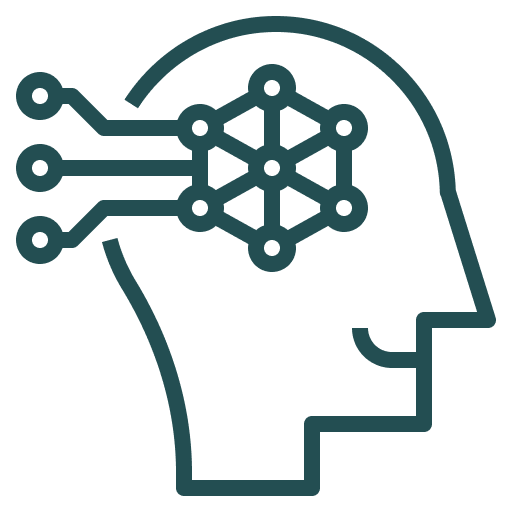
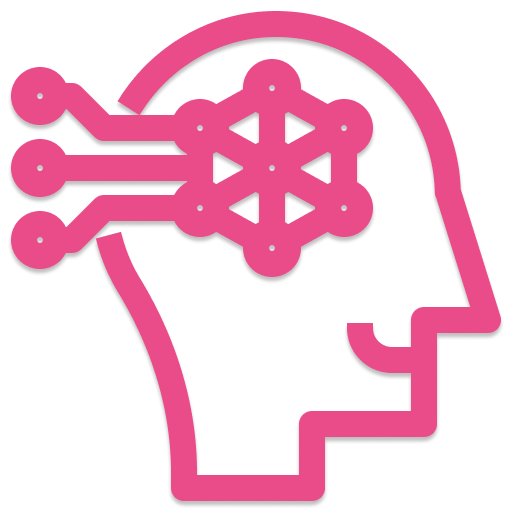
update

diff --git a/pages/index.vue b/pages/index.vue
@@ -3,23 +3,27 @@
     class="flex flex-col items-start justify-center max-w-screen-sm min-h-screen px-4 mx-auto"
   >
     <div class="flex items-center mb-8">
-      <icon-logo class="w-10 h-10 mr-4"></icon-logo>
-      <div class="text-2xl font-extrabold text-teal-900">Everything ML</div>
+      <icon-logo class="w-16 h-16 mr-4 md:w-20 md:h-20"></icon-logo>
+      <div class="text-3xl font-extrabold md:text-4xl text-primary">
+        Everything ML
+      </div>
     </div>
 
     <div class="mb-8">
-      <h1 class="mb-4 text-2xl leading-9 md:text-3xl sub-heading">
+      <h1 class="mb-4 text-2xl leading-9 md:text-3xl font-crimson">
+        A Newsletter on ML and Data Science Used in Production
+      </h1>
+
+      <p class="mb-4">
         The important things you NEED to know about
         <span class="highlight">machine learning</span> and
-        <span class="highlight">data science</span> in production. <br />
-      </h1>
-      <p class="mb-4 text-2xl leading-9 md:text-3xl sub-heading">
-        Packaged in a SHORT newsletter.
+        <span class="highlight">data science</span> in production, packaged in a
+        SHORT newsletter.
       </p>
 
       <p class="mb-4">
-        We want to surface the stories that make you better at providing value
-        using machine learning and data science.
+        We want to surface the stories from the internet that will make you
+        better at providing value using machine learning and data science.
       </p>
 
       <!-- <p>
@@ -41,13 +45,25 @@
       </p> -->
     </div>
 
-    <div class="flex w-full">
-      <a
-        href="https://everythingml.substack.com/"
-        class="inline-flex items-center justify-center w-full px-8 py-4 text-lg text-white bg-teal-900 rounded-lg md:w-auto hover:bg-opacity-75 hover:shadow-lg"
-      >
-        I'm Interested!
-      </a>
+    <div class="flex flex-col items-center w-full md:flex-row">
+      <div class="w-full mb-4 mr-2 md:mb-0">
+        <a
+          href="https://everythingml.substack.com/welcome"
+          class="inline-flex items-center justify-center w-full px-8 py-4 text-lg text-white rounded-lg bg-primary md:w-auto hover:bg-primary-100 hover:shadow-lg"
+        >
+          I'm Interested!
+        </a>
+      </div>
+
+      <div>
+        <a
+          class="inline-flex items-center px-2 py-4 cursor-pointer text-primary hover:underline"
+          href="https://everythingml.substack.com/welcome?no_cover=true"
+        >
+          Let me read it first
+          <icon-arrow-right class="w-5 h-5 ml-2"></icon-arrow-right>
+        </a>
+      </div>
     </div>
 
     <!-- <div>
@@ -65,19 +81,17 @@
 
 <script>
 import IconLogo from '@/assets/svg/logo.svg?inline'
+import IconArrowRight from '@/assets/svg/arrow-right.svg?inline'
 
 export default {
   components: {
     IconLogo,
+    IconArrowRight,
   },
 }
 </script>
 
 <style scoped>
-.sub-heading {
-  font-family: 'Crimson Text', serif;
-}
-
 .highlight {
   background-image: -webkit-gradient(
     linear,

diff --git a/assets/css/main.css b/assets/css/main.css
@@ -1,7 +1,12 @@
+:root {
+  --primary: #ea4c89;
+  --primary-100: #fdedf3;
+}
+
 html,
 body {
-  font-family: 'Inter', -apple-system, BlinkMacSystemFont,
-    Roboto, 'Oxygen-sans', Ubuntu, Cantarell, 'Helvetica Neue', sans-serif;
+  font-family: 'Inter', -apple-system, BlinkMacSystemFont, Roboto, 'Oxygen-sans',
+    Ubuntu, Cantarell, 'Helvetica Neue', sans-serif;
   -webkit-box-sizing: border-box; /* Safari/Chrome, other WebKit */
   -moz-box-sizing: border-box; /* Firefox, other Gecko */
   box-sizing: border-box; /* Opera/IE 8+ */
@@ -10,5 +15,9 @@ body {
   -ms-text-size-adjust: 100%;
   -webkit-text-size-adjust: 100%;
   -moz-osx-font-smoothing: grayscale;
-  background: #e6fffa7a;
+  background: #fdedf34a;
+}
+
+.font-crimson {
+  font-family: 'Crimson Text', serif;
 }

diff --git a/nuxt-attrs.js b/nuxt-attrs.js
@@ -32,7 +32,7 @@ export const meta = [
     hid: 'twitter:image',
     name: 'twitter:image',
     content:
-      'https://res.cloudinary.com/cheapflix/image/upload/v1605101793/everythingml-card.png',
+      'https://res.cloudinary.com/cheapflix/image/upload/v1605125597/ecard.png',
   },
   {
     hid: 'twitter:image:alt',
@@ -56,7 +56,7 @@ export const meta = [
     hid: 'og:image',
     property: 'og:image',
     content:
-      'https://res.cloudinary.com/cheapflix/image/upload/v1605101793/everythingml-card.png',
+      'https://res.cloudinary.com/cheapflix/image/upload/v1605125597/ecard.png',
   },
   {
     hid: 'og:site_name',

diff --git a/tailwind.config.js b/tailwind.config.js
@@ -2,7 +2,8 @@ module.exports = {
   theme: {
     extend: {
       colors: {
-        primary: '',
+        primary: 'var(--primary)',
+        'primary-100': 'var(--primary-100)',
       },
     },
   },
